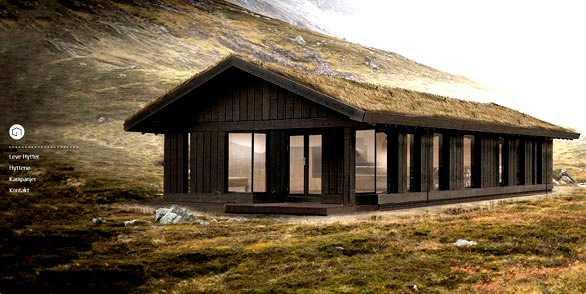
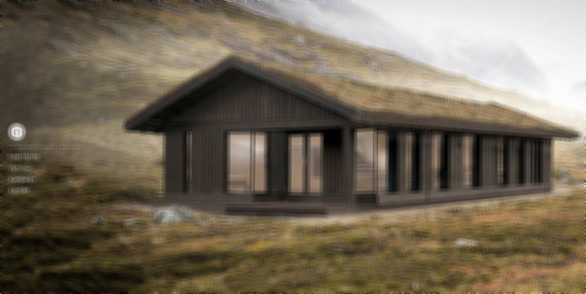
make effects available

diff --git a/photoedit/photoapp/templates/photoapp/photoapp.html b/photoedit/photoapp/templates/photoapp/photoapp.html
@@ -32,16 +32,15 @@
             <div class="col-md-8">
                 <center>
                 <div class="ui big image" id="pixedit">
-
-                    <div class="frame">
-                        <img id="avatar" src = "#">
-                        <p>{{ photo.title }}</p>
+                    <div id="begin"><p class="welcome">Click on Image to begin edit...</p></div>
+                    <div class="frame" id="frameid">
+                        <img id="avatar" src="" style="display:none" class="flex">
                     </div>
                 </div>
                 </center>
                 <br>
                 <div class="container-outer">
-                    <div class="container-inner">
+                    <div class="container-inner flex" style="display:none">
 
                         <div class="ui small image effects">
                         <a href="#" class="setup" data-effect="brightness">
@@ -56,25 +55,25 @@
                         </div>
 
                         <div class="ui small image effects">
-                        <a href="#" class="setup" data-effect="vintage">
+                        <a href="#" class="setup" data-effect="grayscale">
                         <img src = "#"></a>
                         <p>{{ photo.title }}</p>
                         </div>
 
                         <div class="ui small image effects">
-                        <a href="#" class="setup" data-effect="effect1">
+                        <a href="#" class="setup" data-effect="blur">
                         <img src = "#"></a>
                         <p>{{ photo.title }}</p>
                         </div>
 
                         <div class="ui small image effects">
-                        <a href="#" class="setup" data-effect="effect2">
+                        <a href="#" class="setup" data-effect="contour">
                         <img src = "#"></a>
                         <p>{{ photo.title }}</p>
                         </div>
 
                         <div class="ui small image effects">
-                        <a href="#" class="setup" data-effect="effect3">
+                        <a href="#" class="setup" data-effect="hue">
                         <img src = "#"></a>
                         <p>{{ photo.title }}</p>
                         </div>

diff --git a/photoedit/static/js/main.js b/photoedit/static/js/main.js
@@ -1,8 +1,10 @@
 $.ajaxSetup({
     headers: {
-        "X-CSRFToken": $("input[name='csrfmiddlewaretoken']").val()
+        "X-CSRFToken": $("meta[name='csrf-token']").attr("content"),
+        'Cache-Control': 'no-store'
     },
 });
+$.ajaxSetup({ cache: false });
 
 function socialLogin(user) {
     console.log(user)
@@ -88,6 +90,7 @@ $(document).ready(function(){
     //display picture on central div
     $(".editpix").on('click', function(e){
         e.preventDefault();
+        $('#begin').hide();
         var imageurl = $(this).find('img').attr('src');
         var imgdiv = $('#pixedit').find('img');
         var effectsdiv = $('.effects').find('img');
@@ -98,6 +101,7 @@ $(document).ready(function(){
         imgdiv.attr( "src", imageurl );
         effectsdiv.attr('src',imageurl);
         effectsdiv.attr('data-image-id', imagepath)
+        $(".flex").show();
 
         console.log(imageurl)
 
@@ -106,26 +110,34 @@ $(document).ready(function(){
     //get image from template
     $(".setup").click(function(e){
         e.preventDefault();
+        e.stopPropagation();
         var image = $(this).find('img').attr('data-image-id')
         var imgeffect = $(this).attr('data-effect')
         console.log(image)
         console.log(imgeffect)
-
 
         $.ajax({
             type: "GET",
             url: "/photoapp/addeffects/",
             data: {'image': image, 'effect': imgeffect },
             success: function(data) {
-                console.log("data " + data);
-                $("#avatar").attr('src', '/' + data);
+               var avatatr = $("#avatar").attr("src", '/'+ data + "?" + new Date().getTime());
+                $("#frameid").html(avatar);
+
             },
 
             error: function(error) {
                     console.log(error.responseText)
                 },
+                complete: function(data){
+                    //console.log(data);
+                    //$("#frameid").load(data.responseText);
+                }
 
         });
+        // $("#frameid").load("/photoapp/addeffects/",{'image': image, 'effect': imgeffect }, function(x,y,z){
+        //     console.log(z.responseText);
+        // });
 
     });
 

diff --git a/photoedit/templates/headerbase.html b/photoedit/templates/headerbase.html
@@ -3,8 +3,11 @@
 <!DOCTYPE html>
 <html lang="en">
 
-<head>
 
+<head>
+    <meta name="csrf-token" content="{{csrf_token}}">
+    <META HTTP-EQUIV="PRAGMA" CONTENT="NO-CACHE">
+    <meta http-equiv="refresh" content="30">
     <meta charset="utf-8">
     <meta http-equiv="X-UA-Compatible" content="IE=edge">
     <meta name="viewport" content="width=device-width, initial-scale=1">

diff --git a/photoedit/static/css/index.css b/photoedit/static/css/index.css
@@ -75,8 +75,8 @@ body {
   padding: 30px;
   background-color: lightgray;
   border: solid ;
-  height: 600px;
-  width: 600px;
+  /*height: 600px;*/
+  /*width: 600px;*/
 }
 
 .sidebar {

diff --git a/photoedit/photoapp/templates/partials/image.html b/photoedit/photoapp/templates/partials/image.html
@@ -1,0 +1,2 @@
+
+<img id="avatar" src="/{{image_url}}">

diff --git a/photoedit/photoapp/effects.py b/photoedit/photoapp/effects.py
@@ -15,28 +15,83 @@ class PillowImageView(TemplateView, LoginRequiredMixin):
         effect = request.GET.get('effect')
 
         if effect == 'brightness':
+            pilimage = str(request.GET.get('image'))
 
             img = Image.open(pilimage)
             enh = ImageEnhance.Contrast(img)
             out = enh.enhance(2.3)
-            # out = img.filter(ImageFilter.DETAIL)
             filepath, ext = os.path.splitext(pilimage)
 
             edit_path = filepath + 'edited' + ext
-            out.save(edit_path, format='PNG')
+            # if os.path.isdir(edit_path):
+            #     os.rmdir(edit_path)
+            out.save(edit_path, 'png', quality=100)
 
-        elif effect == 'sharp':
+        if effect == 'sharp':
 
             img = Image.open(pilimage)
             enh = ImageEnhance.Contrast(img)
             out = enh.enhance(1.5)
-            # out = img.filter(ImageFilter.DETAIL)
             filepath, ext = os.path.splitext(pilimage)
 
             edit_path = filepath + 'edited' + ext
-            out.save(edit_path, format='PNG')
+            # if os.path.isdir(edit_path):
+            #     os.rmdir(edit_path)
+            out.save(edit_path, 'png', quality=100)
 
-            # return response and we're done!
+        if effect == 'grayscale':
+
+            img = Image.open(pilimage).convert('L')
+
+            filepath, ext = os.path.splitext(pilimage)
+            edit_path = filepath + 'edited' + ext
+
+            # if os.path.isdir(edit_path):
+            #     os.rmdir(edit_path)
+
+            img.save(edit_path, 'png', quality=100)
+
+        if effect == 'blur':
+
+            img = Image.open(pilimage)
+            img = img.filter(ImageFilter.BLUR)
+
+            filepath, ext = os.path.splitext(pilimage)
+            edit_path = filepath + 'edited' + ext
+
+            if os.path.isdir(edit_path):
+                os.rmdir(edit_path)
+
+            img.save(edit_path, 'png', quality=100)
+
+        if effect == 'contour':
+
+            img = Image.open(pilimage)
+            img = img.filter(ImageFilter.CONTOUR)
+
+            filepath, ext = os.path.splitext(pilimage)
+            edit_path = filepath + 'edited' + ext
+
+            # if os.path.isdir(edit_path):
+            #     os.rmdir(edit_path)
+
+            img.save(edit_path, 'png', quality=100)
+
+        if effect == 'hue':
+
+            img = Image.open(pilimage).convert('HSV')
+
+            enh = ImageEnhance.Contrast(img)
+            out = enh.enhance(-1.5)
+
+            filepath, ext = os.path.splitext(pilimage)
+            edit_path = filepath + 'edited' + ext
+
+            # if os.path.isdir(edit_path):
+            #     os.rmdir(edit_path)
+
+            out.save(edit_path, 'png', quality=100)
 
         return HttpResponse(os.path.relpath(edit_path, settings.BASE_DIR),
                             content_type="text/plain")
+
